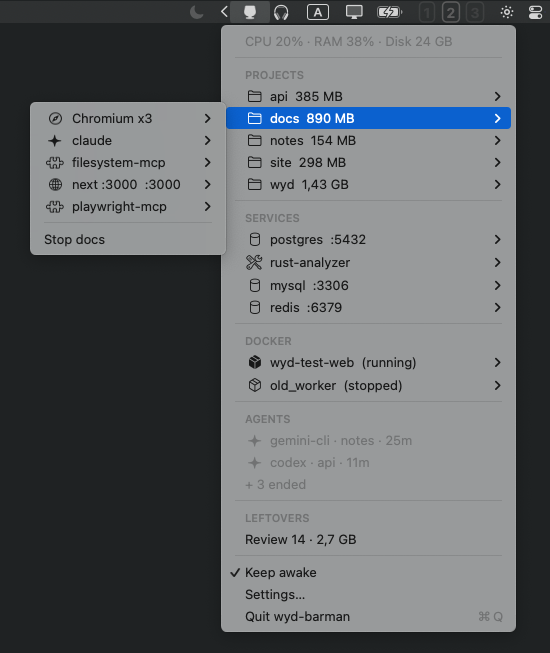
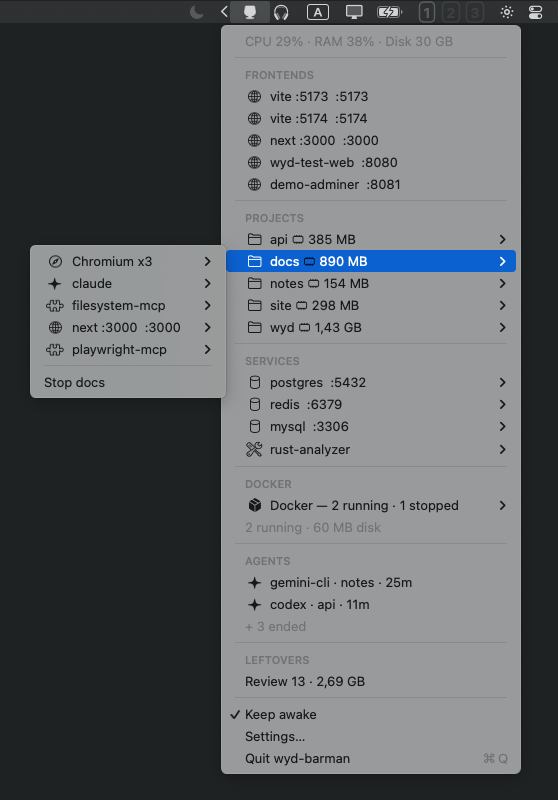
docs: full README with sections, demo mode, keep-awake, screenshots

Changed region(s): [[0.0309, 0.0, 0.9891, 0.9801], [0.8655, 0.9188, 0.8964, 0.9495], [0.34, 0.0, 0.3709, 0.0306]]

diff --git a/README.md b/README.md
@@ -2,63 +2,68 @@
 
 # wyd-barman
 
-Tiny native macOS menu-bar remote control for [wyd](https://wyd.sh) (the engine).
-No Dock icon. Renders a cached `wyd barman snapshot`, routes every control
-action through `wyd`, never scans processes itself.
+Tiny native macOS menu-bar remote control for [wyd](https://wyd.sh) — the engine.
+No Dock icon, ~1 MB, near-zero idle CPU. Renders a cached `wyd barman snapshot`,
+routes every action through `wyd`, never scans processes itself.
 
 > Intelligence belongs in `wyd`. Convenience belongs in `wyd-barman`.
 
+![wyd-barman menu](wyd-barmen.png)
+
+## What you get
+
+- **STATUS** — one line: `CPU · RAM · Disk free`, measured by the engine.
+- **FRONTENDS** — every running frontend (dev servers, docker-published
+  ports); one click opens the browser. The engine verifies a port actually
+  speaks HTTP before offering the URL — no name guessing.
+- **PROJECTS** — per project: resources, RAM, Stop (with confirmation).
+- **SERVICES / DOCKER** — databases and containers. Docker rolls up into a
+  submenu (running first, then stopped) with a disk-usage line; stopped
+  containers are not "leftovers", they are just stopped.
+- **AGENTS** — active coding-agent sessions; ended ones are summarized as
+  `+ N ended`.
+- **LEFTOVERS → Review** — cleanup plan built by the engine (abandoned
+  running processes + docker reclaimables; databases always protected).
+  Deselect what you want to keep — still engine-validated on execute.
+- **Keep awake** — one toggle: no system sleep, no display sleep, no screen
+  saver (`IOPMAssertion`, no external processes).
+
+Every row's submenu is built verbatim from the engine's `actions` array
+(Open / Start / Stop / Restart); Force Kill is a two-step submenu. Stale
+rows cannot hurt anything: the engine re-validates identity at execution
+time (start_time check, never `killpg`), and a stale id just returns
+"refresh", exit 2.
+
+**Demo mode** — Settings toggle routes every call through the engine's
+deterministic synthetic dataset: five projects, agents, dev servers,
+docker stacks, leftovers. Safe to click around — nothing on the host is
+touched. Great for screenshots.
+
 ## Requirements
 
-- macOS 14+, Xcode 16.4 / Swift 6
-- `wyd` 0.9.0+ with the `barman` subcommand (`wyd barman version --json`
-  must report `schema_version == 1`)
+- macOS 14+
+- `wyd` 0.9.0+ with the `barman` subcommand — check:
+  ```bash
+  wyd barman version --json   # → {"schema_version": 1, ...}
+  ```
 
 ## Install
 
 ```bash
-git clone <this-repo> && cd wyd-barman
+git clone https://github.com/oxyplay/wyd-barman.git && cd wyd-barman
 xcodebuild -project wyd-barman.xcodeproj -scheme wyd-barman -configuration Release build
-open ~/Library/Developer/Xcode/DerivedData/wyd-barman-*/Build/Products/Release/wyd-barman.app
+cp -R ~/Library/Developer/Xcode/DerivedData/wyd-barman-*/Build/Products/Release/wyd-barman.app /Applications/
+open -a /Applications/wyd-barman.app
 ```
 
 The app locates `wyd` via, in order:
 
-1. Settings override (`wydBinaryPath`, file picker)
+1. Settings override (file picker)
 2. `/opt/homebrew/bin/wyd`, `/usr/local/bin/wyd`, `~/.local/bin/wyd`
 3. Login-shell `PATH` (`zsh -l -c 'command -v wyd'`)
 
-Missing → "wyd not found" state with install link, never a crash.
+Missing → "wyd not found" with an install link, never a crash.
 Incompatible schema → "wyd needs to be updated", never a decode crash.
-
-## Use
-
-Click the menu-bar glass → cached snapshot renders instantly, then
-refreshes (on open + every 10s while open; a light background poll every
-3 min while closed).
-
-Sections:
-
-- **STATUS** — one line: `CPU · RAM · Disk free` (measured by the engine).
-- **FRONTENDS** — everything running with a URL; one click opens the
-  browser (URL supplied by the engine only).
-- **PROJECTS** — per project: resources, total RAM, Stop (with confirm).
-- **SERVICES / DOCKER** — databases and containers; Docker rolls up into a
-  submenu (running first, then stopped) with a disk-usage line.
-- **AGENTS** — active coding-agent sessions; ended ones are summarized.
-- **LEFTOVERS → Review** — cleanup plan backed by
-  `wyd barman cleanup-plan` / `execute` (deselect supported, still
-  engine-validated).
-
-Every row's submenu is built verbatim from the engine's `actions` array
-(Open / Start / Stop / Restart); Force Kill is a two-step submenu.
-Footer: Keep awake (no sleep / no screen saver via `IOPMAssertion`),
-Settings, Quit.
-
-Settings: Launch at Login (`SMAppService`), Keep awake, Demo mode (the
-engine's deterministic synthetic dataset — safe to click around for
-screenshots), binary path + detected version, confirm toggles for project
-stop and cleanup.
 
 ## Architecture
 
@@ -68,29 +73,39 @@ discovery/ownership/safety   menu-bar UI only
   │ JSON: barman snapshot/action/cleanup-plan/execute/version
   ▼
 WydClient (Process, argv only, 8s snapshot / 30s action timeouts)
-  → AppState (cached snapshot, inFlight guard, banner errors)
+  → AppState (cached snapshot, inFlight guard, non-modal banner errors)
   → MenuBarView / CleanupView / SettingsView
 ```
 
-No `ps`/`lsof`/`libproc`/`kill(` outside the `Process` timeout-terminate;
-no command-name heuristics anywhere in Swift. Verify:
+Refresh: on menu open + every 10 s while open; background poll every
+3 min while closed. `inFlight` drops overlapping refreshes; an action
+always triggers an immediate re-refresh.
+
+No `ps`/`lsof`/`libproc`/`kill(` anywhere in Swift (the only process call
+is the timeout-terminate in `WydClient`); no command-name heuristics —
+classify in `wyd`, render here. Verify:
 
 ```bash
 grep -rn "kill(\|lsof\|libproc\|brew services" App MenuBar State
 ```
 
-## Performance (measured 2026-09-11, M1 Pro)
+## Performance (M1 Pro, measured)
 
 | Metric | Value |
 |---|---|
-| `wyd barman snapshot --json` wall (live host, 30 resources + 9 containers) | 0.26 s |
-| `wyd barman snapshot --json --demo` wall | < 0.02 s |
-| Snapshot JSON size (live / demo) | ~32 KB / ~16 KB |
-| App bundle (Debug) | 1.3 MB |
-| Menu-open latency | instant on cache (renders `snapshot` synchronously, refreshes async every 3 s while open) |
-| Idle CPU / memory <60 MB | spot-check in Instruments before release (not measured in this headless build) |
+| `wyd barman snapshot --json` wall (live host, 28 resources + 9 containers) | 0.26–0.8 s |
+| Menu-open latency | instant on cache |
+| App bundle | 1.6 MB |
+| Idle CPU | ~0 (timers only) |
 
-Refresh policy: menu-open 3 s, menu-closed Auto 20 s / Frequent 5 s /
-Paused; `inFlight` drops overlaps; every action triggers an immediate
-re-refresh. No daemon/socket fast path until measurement proves the CLI
-is a problem (p95 target < 2 s; currently 0.26 s).
+No daemon/socket fast path until measurement proves the CLI is a problem.
+
+## More screenshots
+
+![wyd-barman screenshot 2](wyd-barmen-2.png)
+
+![wyd-barman screenshot 3](wyd-barmen-3.png)
+
+## License
+
+Apache-2.0 — see [LICENSE](LICENSE).
